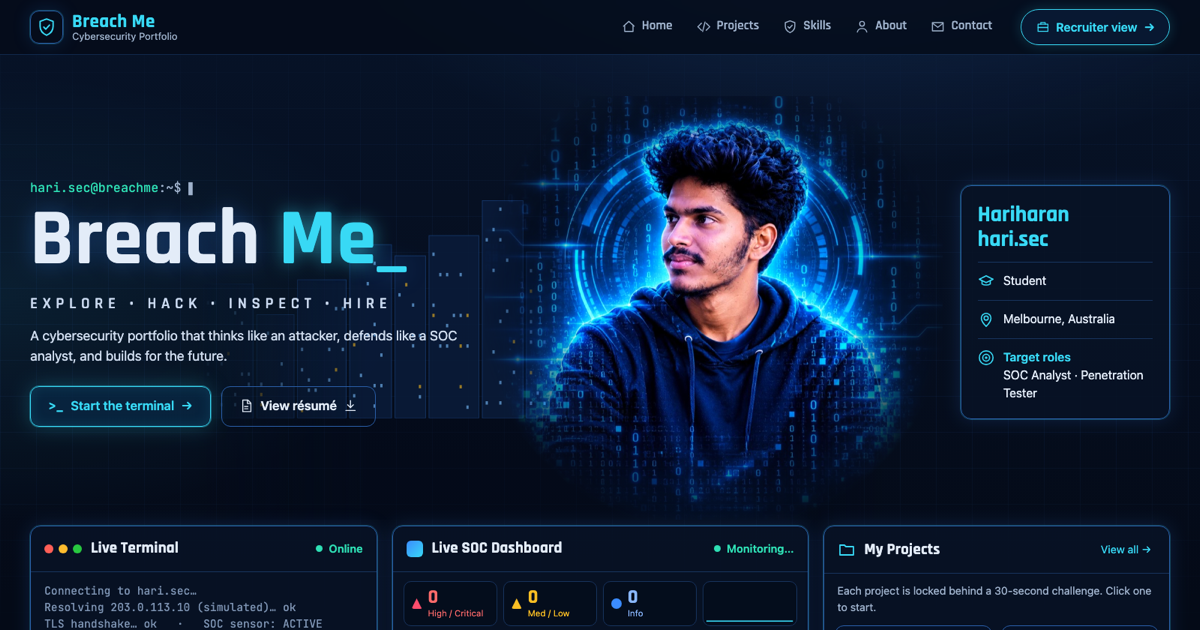
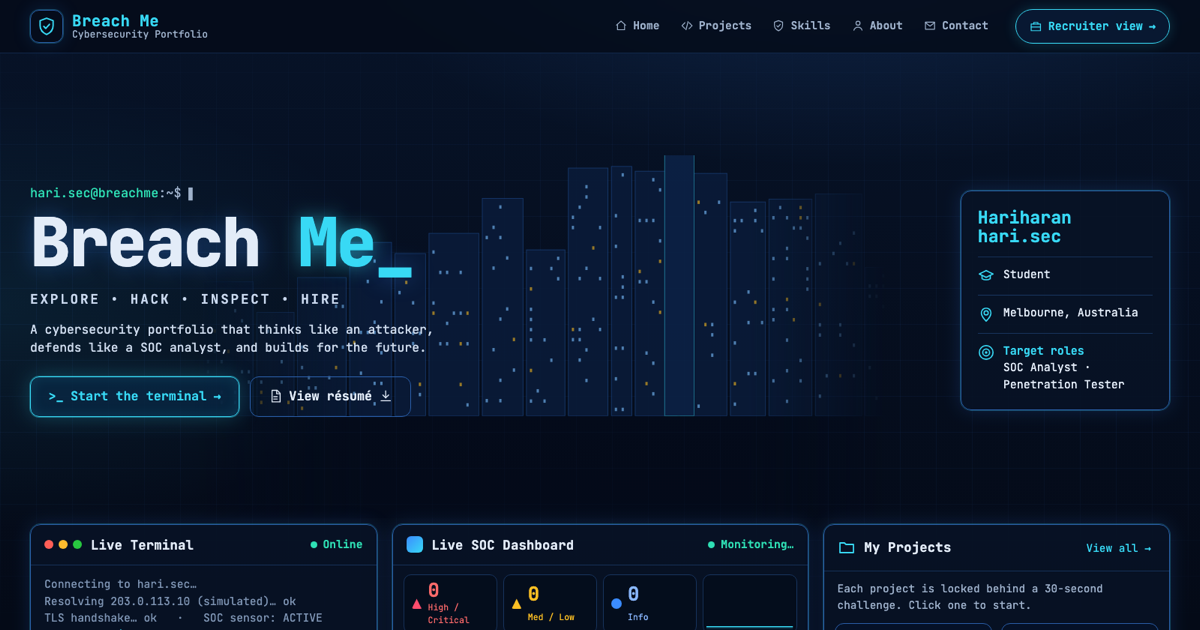
Use JetBrains Mono across the whole site

diff --git a/src/styles/main.css b/src/styles/main.css
@@ -22,8 +22,9 @@
   --glow: 0 0 0 1px rgba(56, 217, 245, 0.25), 0 0 24px rgba(59, 140, 255, 0.18);
   --radius: 14px;
   --mono: 'JetBrains Mono', ui-monospace, SFMono-Regular, Menlo, Consolas, monospace;
-  --display: 'Rajdhani', 'Segoe UI', system-ui, sans-serif;
-  --sans: system-ui, -apple-system, 'Segoe UI', Roboto, 'Helvetica Neue', Arial, sans-serif;
+  /* Whole site uses JetBrains Mono */
+  --display: var(--mono);
+  --sans: var(--mono);
   --gutter: clamp(16px, 3vw, 40px);
   color-scheme: dark;
 }
@@ -154,8 +155,8 @@ button { font: inherit; color: inherit; }
 .p-path { color: var(--blue); }
 .blink, .cursor { animation: blink 1.1s steps(1) infinite; }
 .hero h1 {
-  font-family: var(--display); font-weight: 700; margin: 0;
-  font-size: clamp(3rem, 7.5vw, 6.6rem); line-height: 0.95; letter-spacing: 0.01em;
+  font-family: var(--display); font-weight: 800; margin: 0;
+  font-size: clamp(2.5rem, 6.2vw, 5.6rem); line-height: 1; letter-spacing: -0.03em;
   text-shadow: 0 0 30px rgba(59, 140, 255, 0.35);
 }
 .hero h1 .accent { color: var(--cyan); text-shadow: 0 0 24px rgba(56, 217, 245, 0.55); }
@@ -604,3 +605,17 @@ body.incident .soc { box-shadow: 0 0 0 1px rgba(255, 77, 109, 0.5), 0 0 30px rgb
   .hero { grid-template-columns: 1fr; }
   .portrait.has-photo { display: block; order: -1; max-width: 340px; margin: -8px auto -40px; }
 }
+
+/* JetBrains Mono everywhere: monospace runs wider, so tighten display sizes */
+.hero-verbs { letter-spacing: 0.16em; font-size: clamp(0.85rem, 1.25vw, 1.1rem); }
+.hero-lede { font-size: 1.02rem; }
+.nav-link { font-size: 0.92rem; padding: 10px 12px; }
+.brand-text strong { font-size: 1.3rem; }
+.pc-name { font-size: 1.45rem; }
+.panel-title { font-size: 1.08rem; }
+.pj-text strong { font-size: 0.98rem; }
+.ttp { font-size: 0.8rem; }
+.dlg h2 { font-size: 1.55rem; }
+.dlg h3 { font-size: 1rem; }
+.rp-verdict { font-size: 1.35rem; }
+body { font-size: 15px; }

diff --git a/src/styles/recruiter.css b/src/styles/recruiter.css
@@ -75,3 +75,6 @@ html[data-mode='recruiter'] .muted { color: var(--muted); }
 .rv-interests { padding-left: 1.1em; margin: 6px 0 0; }
 .rv-jobtags { margin: 8px 0 0 !important; }
 .rv-takeaway { margin: 8px 0 0; padding-left: 10px; border-left: 3px solid var(--accent); color: var(--muted); font-size: 0.94rem; }
+.rv h1 { letter-spacing: -0.02em; }
+.rv-sec h2 { font-size: 1.35rem; }
+.rv-roles { font-size: 1rem; }

diff --git a/src/main.ts b/src/main.ts
@@ -1,7 +1,7 @@
 import '@fontsource/jetbrains-mono/latin-400.css';
+import '@fontsource/jetbrains-mono/latin-600.css';
 import '@fontsource/jetbrains-mono/latin-700.css';
-import '@fontsource/rajdhani/latin-600.css';
-import '@fontsource/rajdhani/latin-700.css';
+import '@fontsource/jetbrains-mono/latin-800.css';
 import './styles/main.css';
 import './styles/recruiter.css';
 import './styles/print.css';
